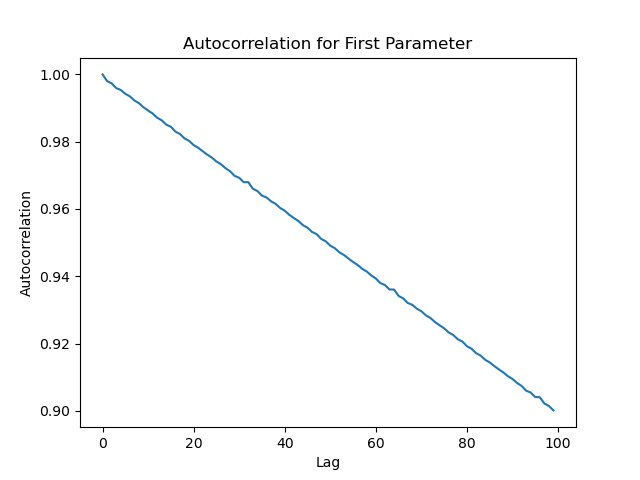
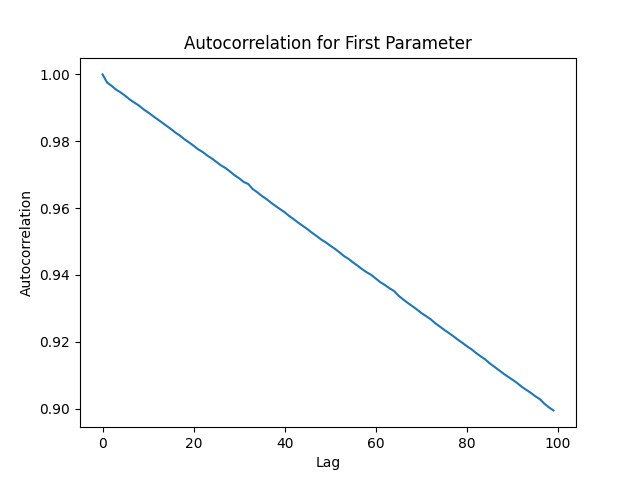
completed sampling for control data

diff --git a/Flux_samplers/control_sample.py b/Flux_samplers/control_sample.py
@@ -36,7 +36,7 @@ time, freq, flux, flux_err = np.genfromtxt('../Data_Generation/data/control_data
 #splr.run_optimization([time,freq],flux,initial,flux_err,z=z,d_L=d_L)
 
 if __name__ == "__main__":
-    splr.run_sampling([time,freq],flux,initial,flux_err,d_L=d_L,z=z,steps=10,processes=2,genfile=1,parallel_optimization=0,nwalkers=32,filename='../../../Large_data/control_samples.h5')
+    splr.run_sampling([time,freq],flux,initial,flux_err,d_L=d_L,z=z,steps=20000,processes=8,genfile=1,parallel_optimization=0,nwalkers=32,filename='../../../Large_data/control_samples.h5')
 
 
     file_path = '../../../Large_data/control_samples.h5'
